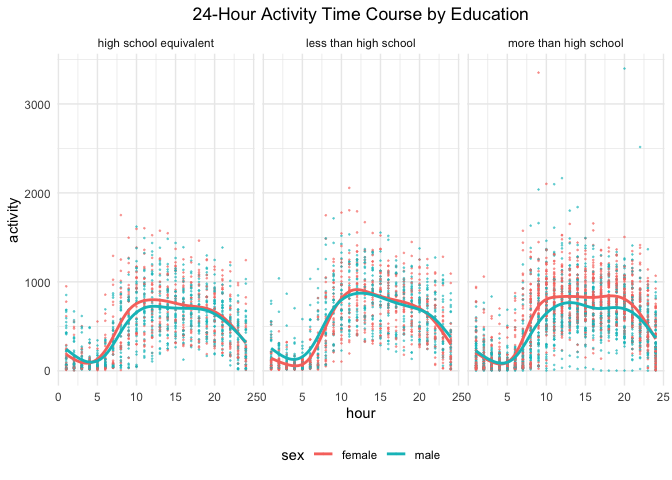
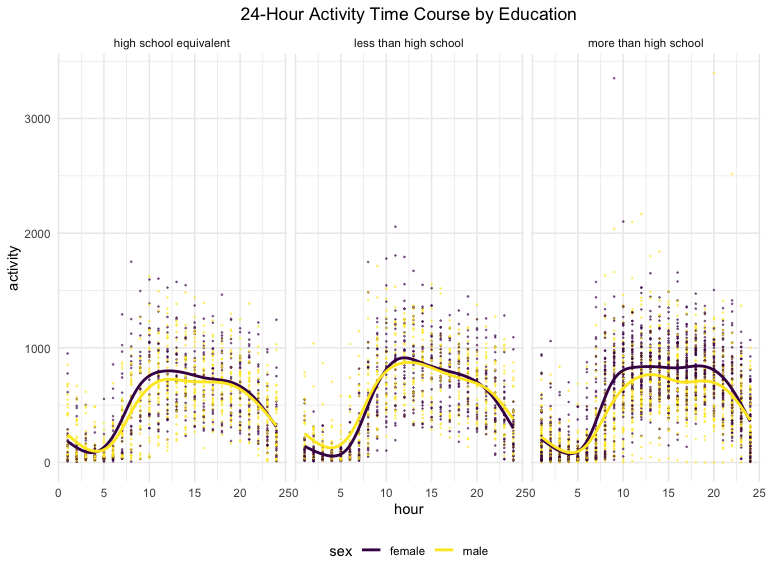
updated r setup - options, figure width and height

diff --git a/p8105_hw3_hk3373.md b/p8105_hw3_hk3373.md
@@ -1,7 +1,7 @@
 P8105 Homework 3
 ================
 Hyun Kim (hk3373)
-2024-10-11
+2024-10-14
 
 # Problem 1
 
